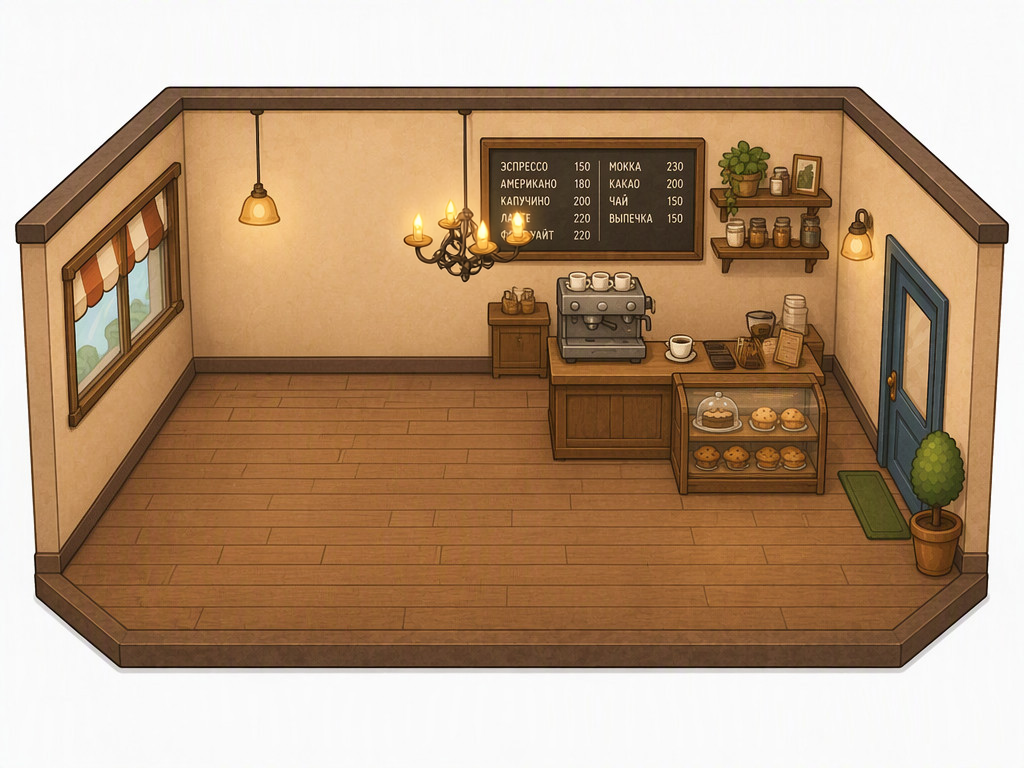
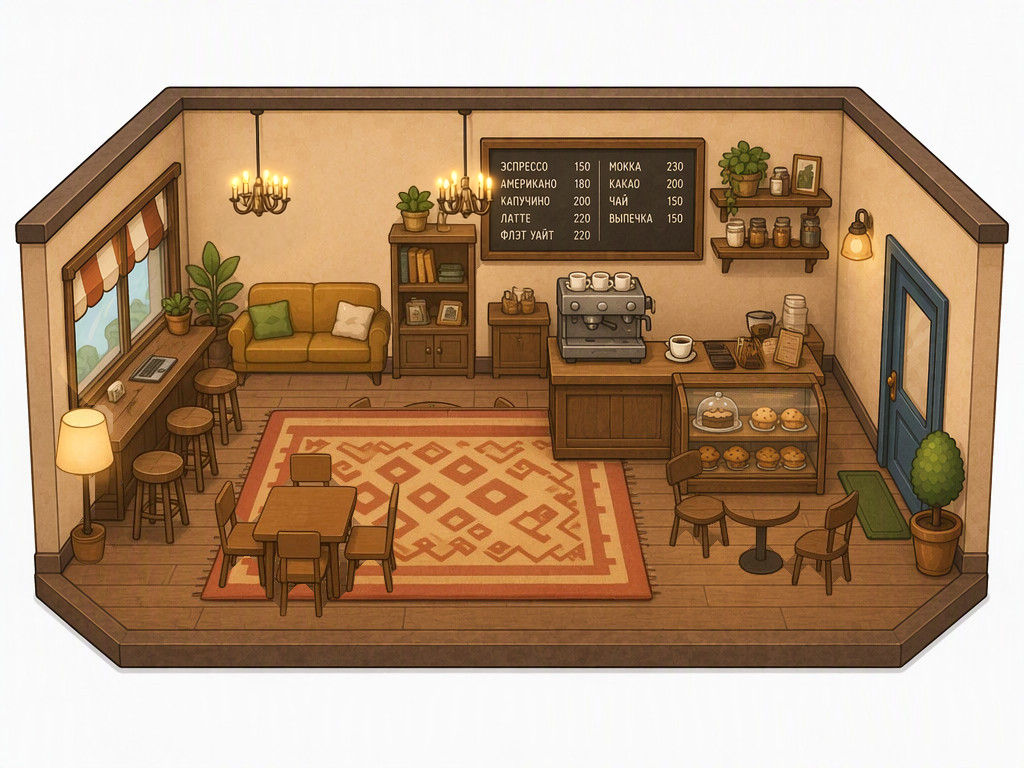
Зал: вещи стиля перерисованы под обставленный зал — зеркало, неон, самовар и полка над диваном, светильники вместо штатных ламп (заплатки стены без ламп для каждой отделки)
Claude-Session: https://claude.ai/code/session_01DHEiVcyPj9Qv6m6TjqeSZK

Changed region(s): [[0.0312, 0.2188, 0.8438, 0.8125]]

diff --git a/src/game/hall.ts b/src/game/hall.ts
@@ -57,12 +57,20 @@ const SEATED: FurnitureId[] = ['table2', 'table4', 'sofa', 'bar'];
 
 const isFinish = (f: FurnitureId): boolean => f.startsWith('walls-') || f.startsWith('floor-');
 
+/** Светильники «штриха» висят вместо штатных ламп: те прячет заплатка стены без ламп */
+const LIGHTS: FurnitureId[] = ['paperlamp', 'pendants', 'chandelier'];
+
 function finishHtml(layout: Partial<Record<string, FurnitureId>>): string {
-  return ['walls', 'floor']
+  const layers = ['walls', 'floor']
     .map((slot) => layout[slot])
     .filter((f): f is FurnitureId => !!f && !!ART[`./art/hall3/${f}.webp`])
-    .map((f) => `<img class="hall-finish" src="${art(f)}" alt="">`)
-    .join('');
+    .map((f) => `<img class="hall-finish" src="${art(f)}" alt="">`);
+  if (layout.touch && LIGHTS.includes(layout.touch)) {
+    const walls = layout.walls?.replace('walls-', '') ?? 'default';
+    const patch = art(`nolamp-${walls}`) ?? art('nolamp-default');
+    layers.push(`<img class="hall-finish" src="${patch}" alt="">`);
+  }
+  return layers.join('');
 }
 
 /** Висят над залом — поверх стены и вещей на стене; остальное стоит на полу и сортируется по глубине */
@@ -72,7 +80,8 @@ function itemHtml(slot: string, f: FurnitureId, sel: boolean, live: boolean): st
   const fr = HALL_ITEMS[f];
   if (!fr) return '';
   const [x, y, w, h] = fr;
-  const z = HANGING.includes(f) ? 3 : 10 + y + h;
+  // Светильники висят под потолком перед стеной и шкафом; вещи на стене — за мебелью
+  const z = LIGHTS.includes(f) ? 900 : HANGING.includes(f) ? 3 : 10 + y + h;
   const act = live ? ` data-action="hall-slot" data-item="${slot}"` : '';
   return `<img class="hall-piece${sel ? ' selected' : ''}" src="${art(`item-${f}`)}" alt="${live ? furniture(f).name : ''}"${act}
     style="left:${pct(x, HALL_ROOM.w)};top:${pct(y, HALL_ROOM.h)};width:${pct(w, HALL_ROOM.w)};z-index:${z}">`;

diff --git a/src/game/hallItems.ts b/src/game/hallItems.ts
@@ -2,13 +2,13 @@
 /** Фирменные вещи и декор зала: x, y, w, h в пикселях комнаты */
 export const HALL_ITEMS: Record<string, [number, number, number, number]> = {
   cat: [732, 247, 77, 59],
-  chandelier: [377, 78, 157, 122],
+  chandelier: [212, 22, 276, 152],
   garland: [44, 66, 134, 280],
-  mirror: [286, 40, 137, 204],
-  neon: [291, 94, 124, 49],
-  paperlamp: [380, 25, 171, 247],
-  pendants: [385, 13, 159, 238],
-  rack: [256, 80, 172, 137],
-  samovar: [290, 60, 178, 156],
+  mirror: [277, 57, 87, 120],
+  neon: [276, 64, 114, 125],
+  paperlamp: [223, 22, 255, 152],
+  pendants: [215, 22, 263, 152],
+  rack: [248, 86, 117, 104],
+  samovar: [284, 47, 82, 101],
   tree: [690, 275, 168, 268],
 };
